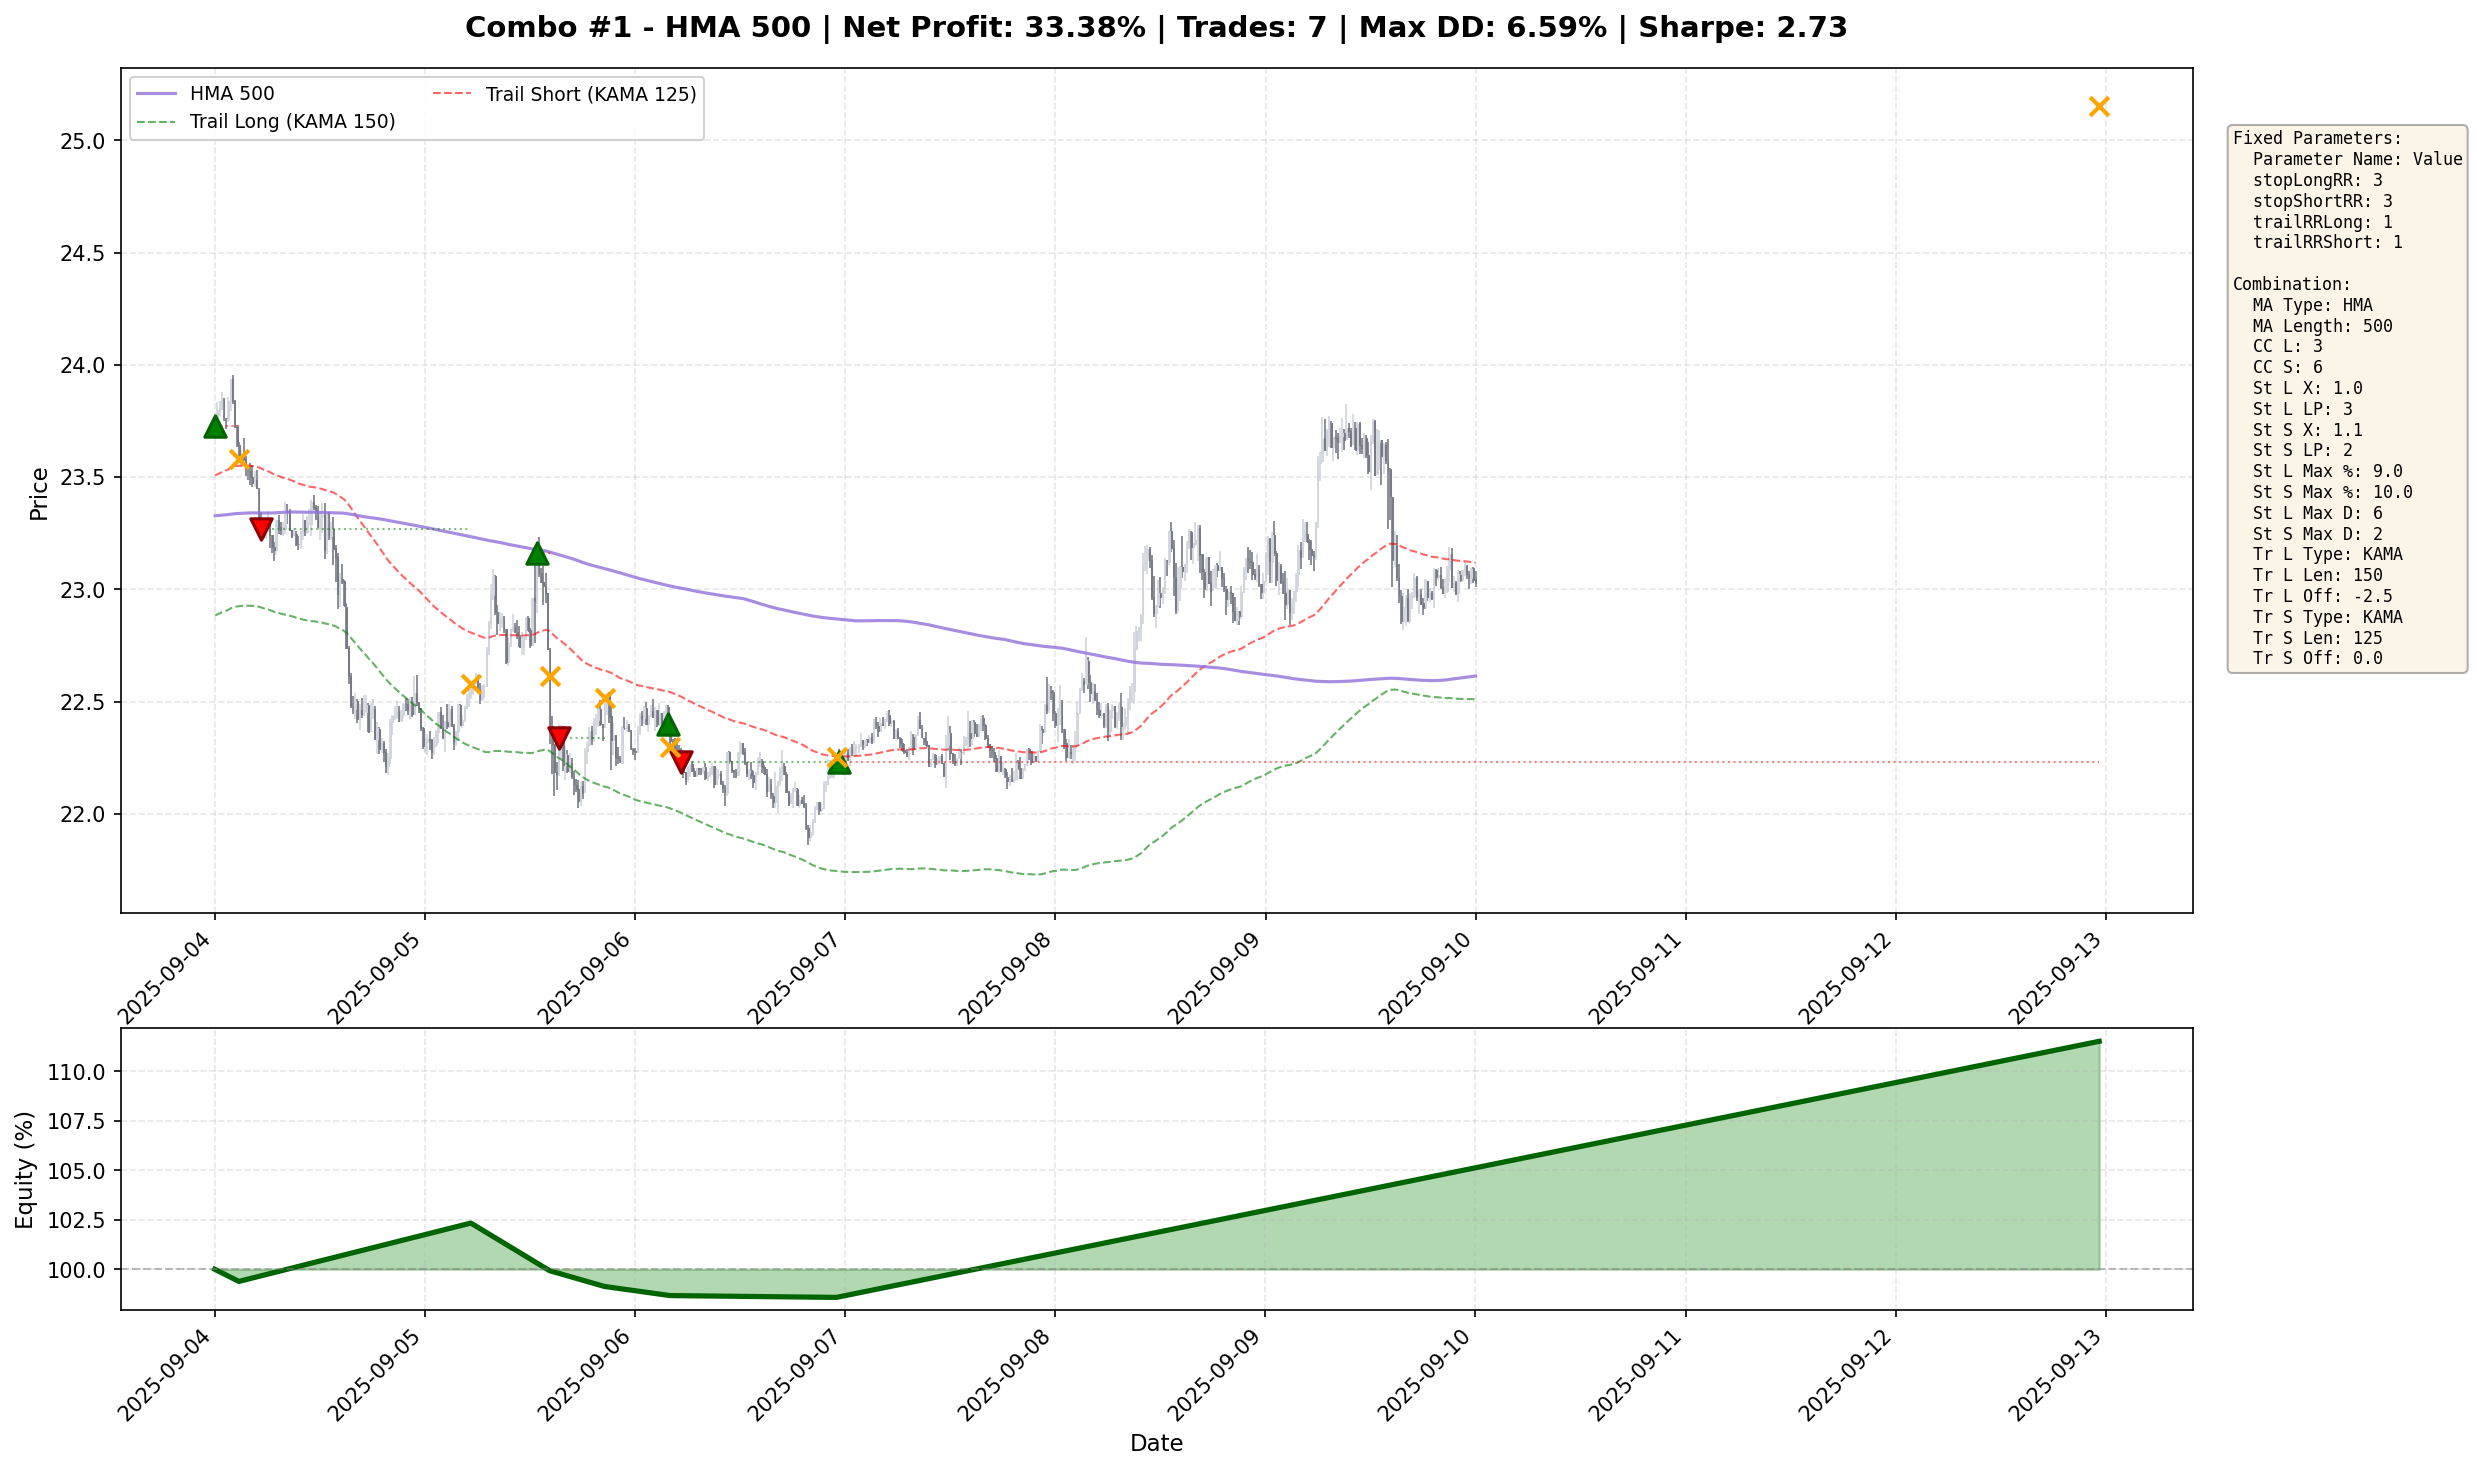
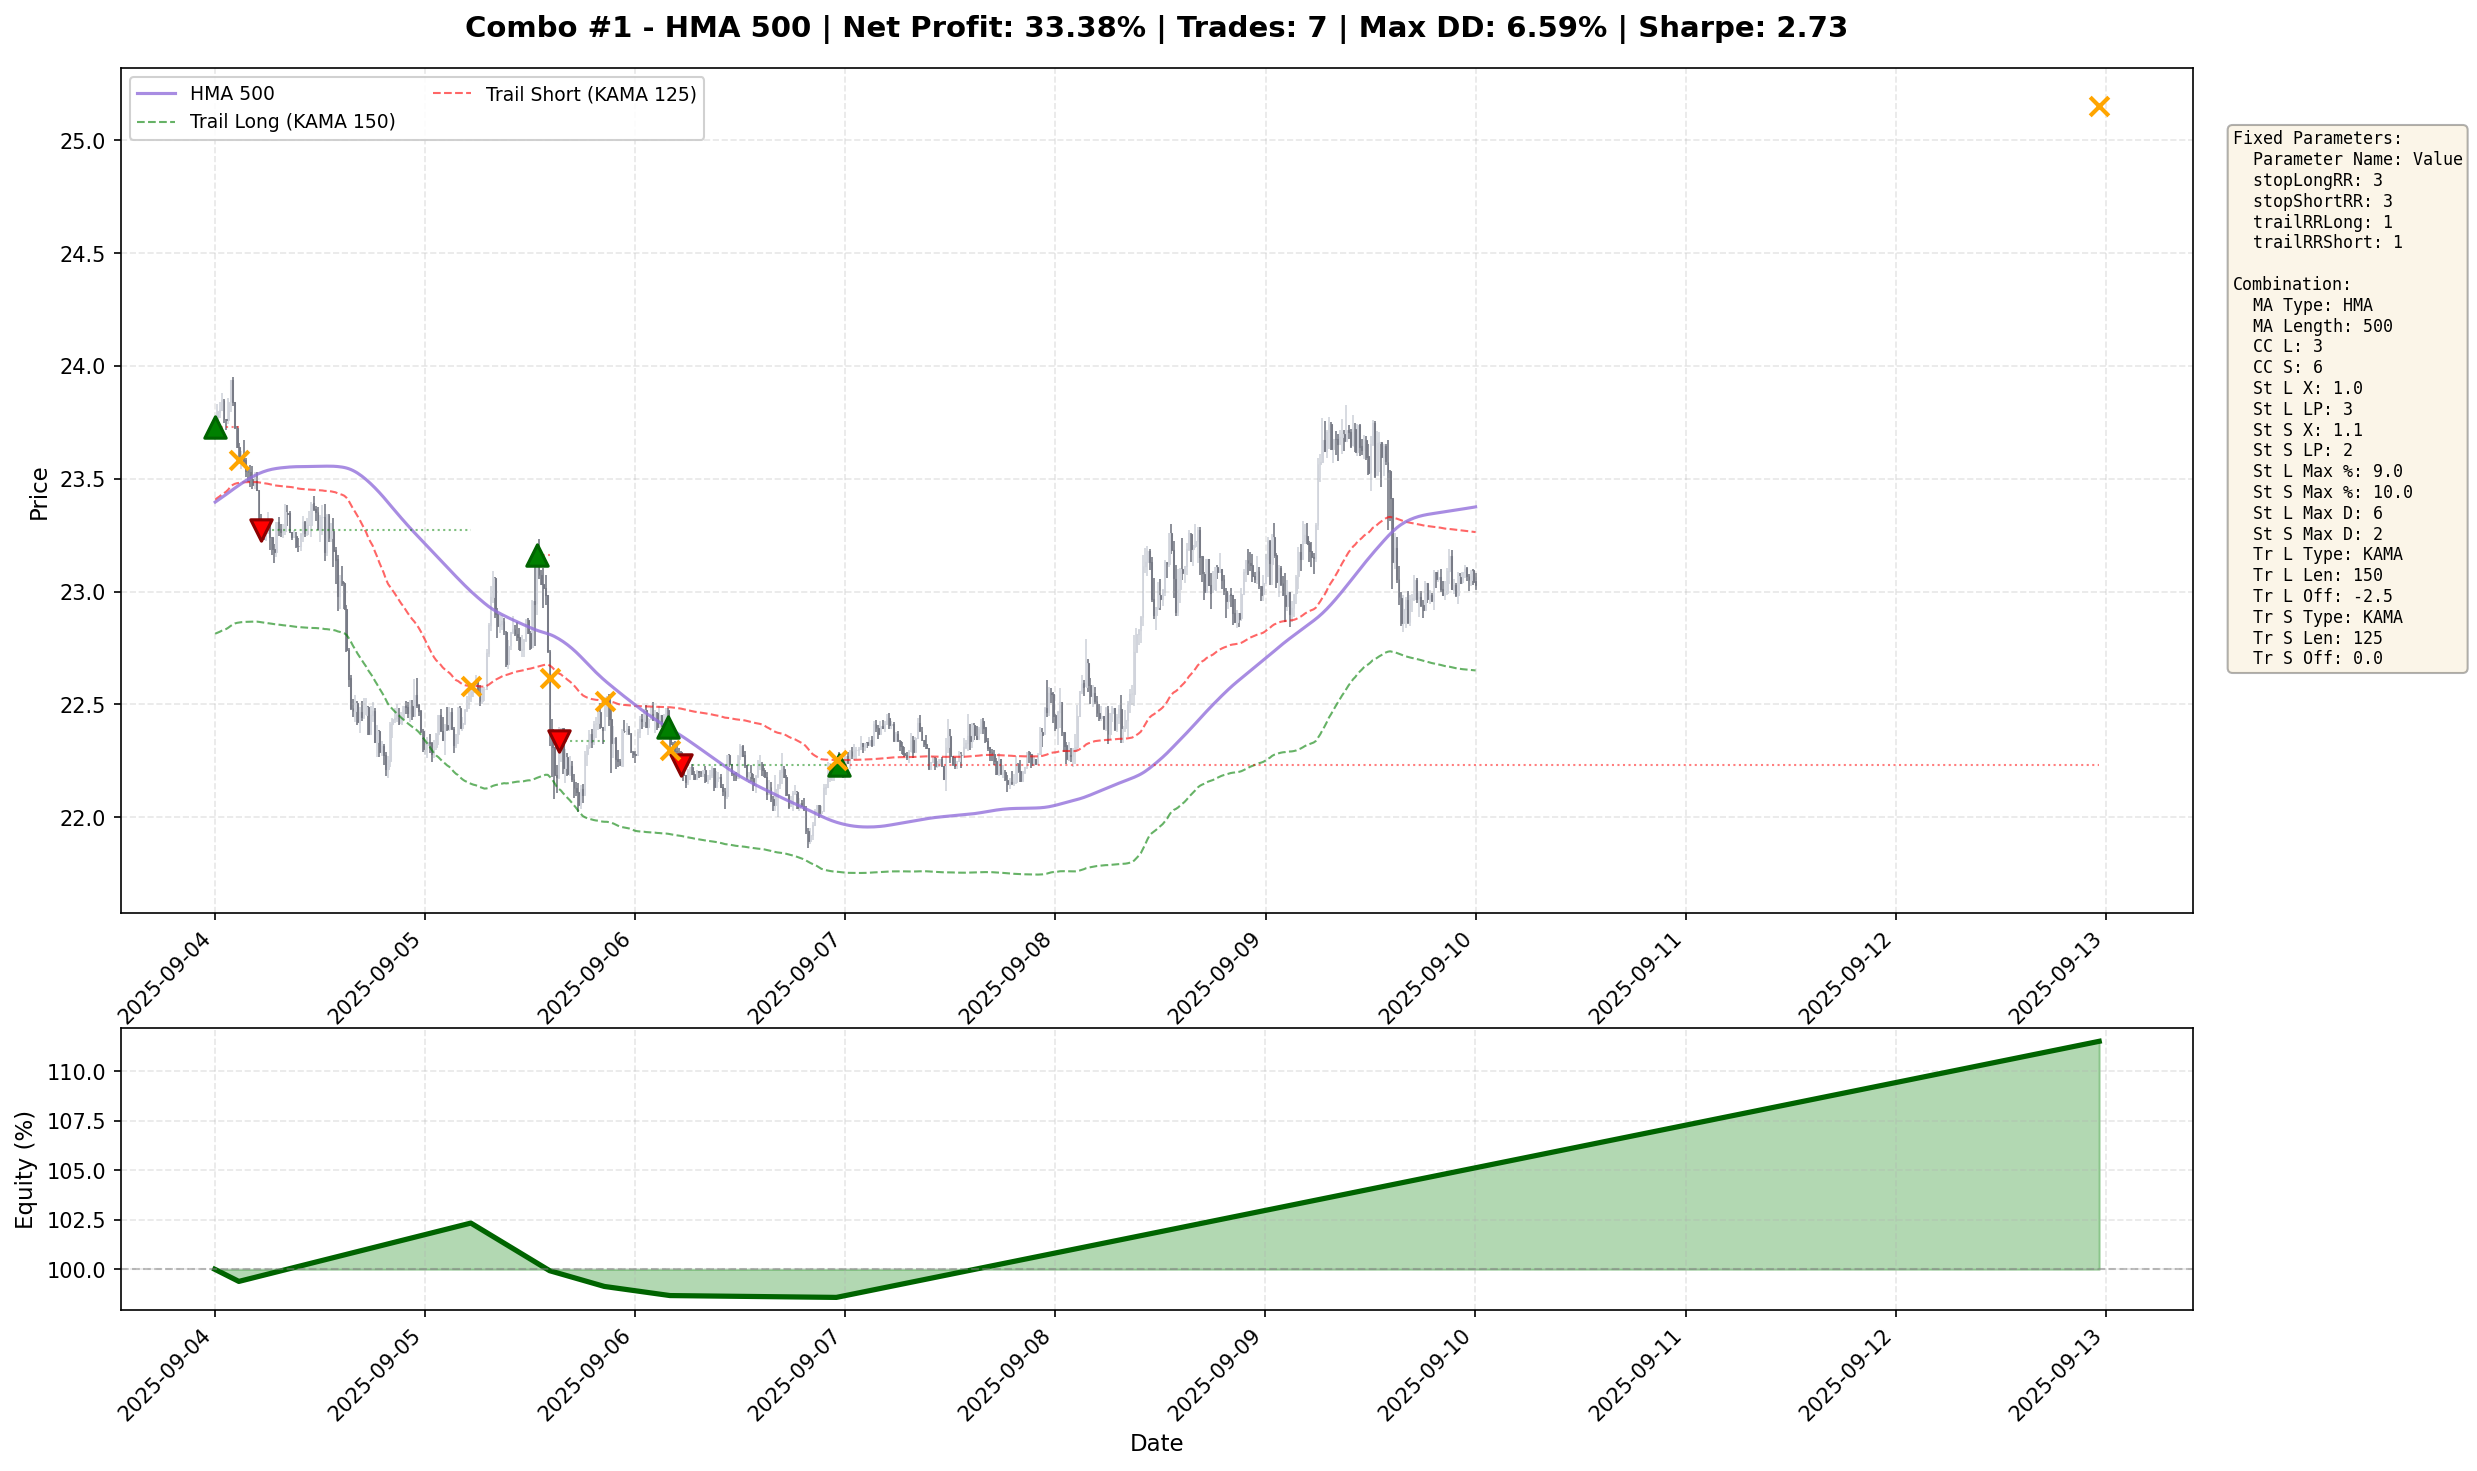
Fix MA calculation by using backtest_engine.get_ma() for all indicators
Fixed incorrect rendering of moving averages (HMA, KAMA, ALMA, TMA) by replacing the
simplified _calculate_ma() method with proper implementations from backtest_engine.

Changes:
- Replaced _calculate_ma() calls with self.backtest_engine.get_ma()
- Removed _calculate_ma() method entirely
- Now uses correct formulas from backtest_engine:
  * HMA: WMA(2*WMA(half) - WMA(full))
  * KAMA: Adaptive MA with efficiency ratio
  * ALMA: Arnaud Legoux MA with Gaussian weights
  * TMA: Triangular MA (double SMA)
- Pass volume/high/low parameters for VWMA and VWAP support

This fixes the bug where HMA appeared as a flat horizontal line instead of
following price trends, and trailing KAMA lines were too smooth.

diff --git a/visualize_cli.py b/visualize_cli.py
@@ -323,14 +323,43 @@ class TradeVisualizer:
             })
 
         # Расчет MA и trail для визуализации (на ВСЕХ данных для правильного warm-up периода)
-        data['ma'] = self._calculate_ma(data, self._get_parameter_value(params, 'MA Type', 'EMA'),
-                                        int(float(self._get_parameter_value(params, 'MA Length', 50))))
-        data['trail_long'] = self._calculate_ma(data, self._get_parameter_value(params, 'Tr L Type', 'T3'),
-                                                int(float(self._get_parameter_value(params, 'Tr L Len', 100)))) * \
-                            (1 + float(self._get_parameter_value(params, 'Tr L Off', 0.0)) / 100)
-        data['trail_short'] = self._calculate_ma(data, self._get_parameter_value(params, 'Tr S Type', 'T3'),
-                                                 int(float(self._get_parameter_value(params, 'Tr S Len', 100)))) * \
-                             (1 + float(self._get_parameter_value(params, 'Tr S Off', 0.0)) / 100)
+        # Используем get_ma() из backtest_engine для корректных расчетов всех типов MA
+        ma_type = self._get_parameter_value(params, 'MA Type', 'EMA')
+        ma_length = int(float(self._get_parameter_value(params, 'MA Length', 50)))
+        data['ma'] = self.backtest_engine.get_ma(
+            data['close'],
+            ma_type,
+            ma_length,
+            volume=data['volume'] if 'volume' in data.columns else None,
+            high=data['high'],
+            low=data['low']
+        )
+
+        trail_long_type = self._get_parameter_value(params, 'Tr L Type', 'T3')
+        trail_long_len = int(float(self._get_parameter_value(params, 'Tr L Len', 100)))
+        trail_long_off = float(self._get_parameter_value(params, 'Tr L Off', 0.0))
+        trail_long_ma = self.backtest_engine.get_ma(
+            data['close'],
+            trail_long_type,
+            trail_long_len,
+            volume=data['volume'] if 'volume' in data.columns else None,
+            high=data['high'],
+            low=data['low']
+        )
+        data['trail_long'] = trail_long_ma * (1 + trail_long_off / 100)
+
+        trail_short_type = self._get_parameter_value(params, 'Tr S Type', 'T3')
+        trail_short_len = int(float(self._get_parameter_value(params, 'Tr S Len', 100)))
+        trail_short_off = float(self._get_parameter_value(params, 'Tr S Off', 0.0))
+        trail_short_ma = self.backtest_engine.get_ma(
+            data['close'],
+            trail_short_type,
+            trail_short_len,
+            volume=data['volume'] if 'volume' in data.columns else None,
+            high=data['high'],
+            low=data['low']
+        )
+        data['trail_short'] = trail_short_ma * (1 + trail_short_off / 100)
 
         # Применяем фильтр по датам ПОСЛЕ расчета индикаторов (для корректного отображения)
         if date_range:
@@ -342,48 +371,6 @@ class TradeVisualizer:
 
         return trades, data, result.net_profit_pct, result.max_drawdown_pct
 
-    def _calculate_ma(self, data, ma_type, length):
-        """Расчет скользящей средней"""
-        ma_type = ma_type.upper()
-        
-        if ma_type == 'SMA':
-            return data['close'].rolling(window=length).mean()
-        elif ma_type == 'EMA':
-            return data['close'].ewm(span=length, adjust=False).mean()
-        elif ma_type == 'WMA':
-            weights = np.arange(1, length + 1)
-            return data['close'].rolling(window=length).apply(
-                lambda x: np.dot(x, weights) / weights.sum(), raw=True
-            )
-        elif ma_type == 'DEMA':
-            ema1 = data['close'].ewm(span=length, adjust=False).mean()
-            ema2 = ema1.ewm(span=length, adjust=False).mean()
-            return 2 * ema1 - ema2
-        elif ma_type == 'T3':
-            alpha = 0.7
-            ema1 = data['close'].ewm(span=length, adjust=False).mean()
-            ema2 = ema1.ewm(span=length, adjust=False).mean()
-            ema3 = ema2.ewm(span=length, adjust=False).mean()
-            ema4 = ema3.ewm(span=length, adjust=False).mean()
-            ema5 = ema4.ewm(span=length, adjust=False).mean()
-            ema6 = ema5.ewm(span=length, adjust=False).mean()
-            c1 = -alpha**3
-            c2 = 3*alpha**2 + 3*alpha**3
-            c3 = -6*alpha**2 - 3*alpha - 3*alpha**3
-            c4 = 1 + 3*alpha + alpha**3 + 3*alpha**2
-            return c1*ema6 + c2*ema5 + c3*ema4 + c4*ema3
-        elif ma_type == 'VWMA':
-            if 'volume' in data.columns:
-                return (data['close'] * data['volume']).rolling(window=length).sum() / \
-                       data['volume'].rolling(window=length).sum()
-            else:
-                return data['close'].rolling(window=length).mean()
-        elif ma_type in ['ALMA', 'KAMA', 'TMA']:
-            # Упрощенные версии
-            return data['close'].ewm(span=length, adjust=False).mean()
-        else:
-            return data['close'].rolling(window=length).mean()
-    
     def _plot_candlesticks(self, ax, data, width=None, colorup='#26a69a', colordown='#ef5350'):
         """
         Рисует японские свечи на графике
